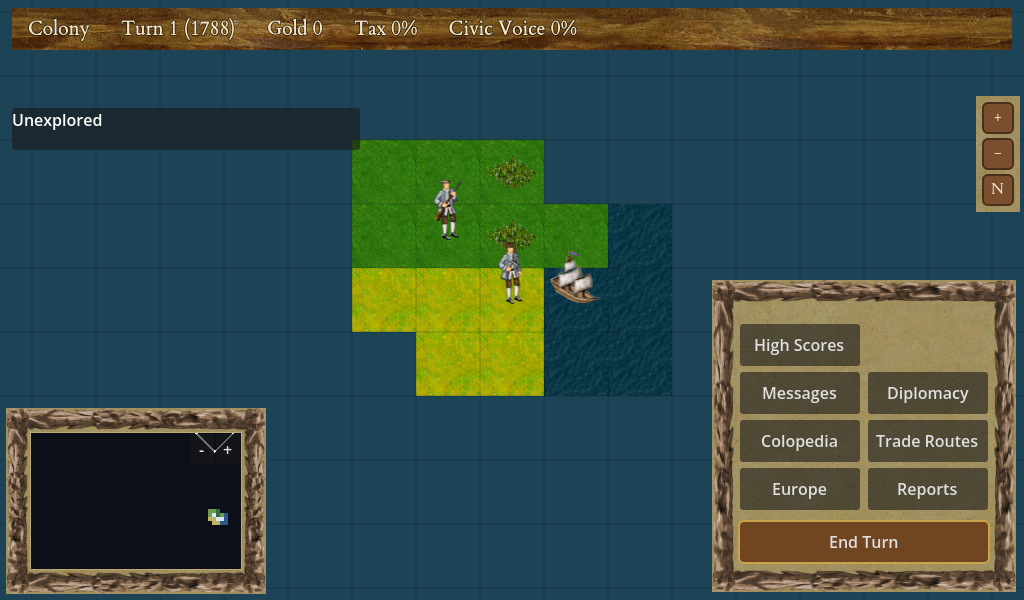
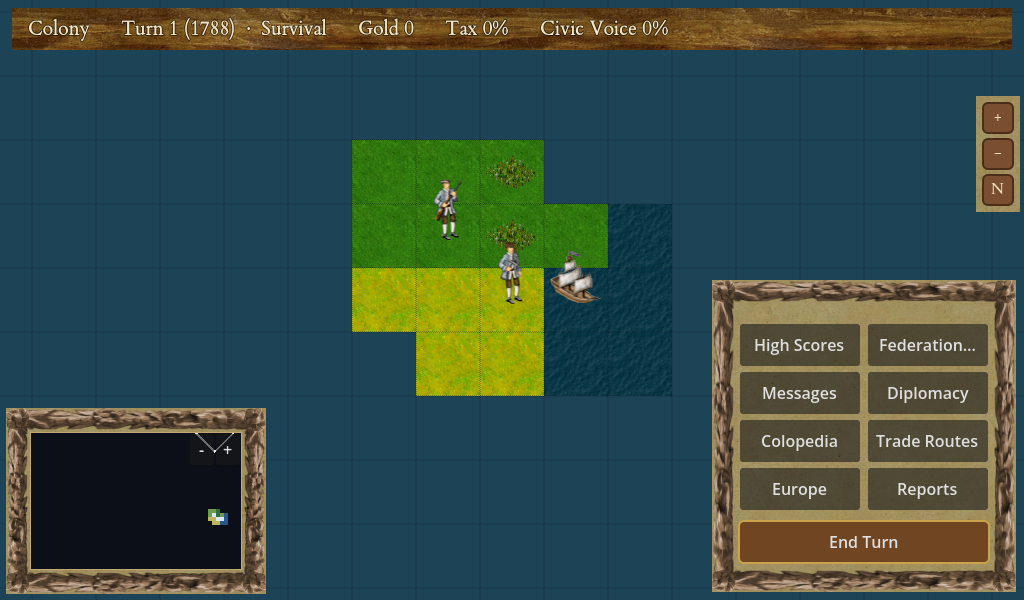
feat(australia): WS2.7 (cont.) — event popup + HUD era indicator
Continuing the UI polish pass after the Federation-panel redesign (Chris
approved the direction). Presentation-only (ADR-006); no rules/GameLogic change.

- Event popup (EventChoicePanel): from a bare title + prompt + unlabelled
  buttons to the doc-19 template — title in the ColonyTitle display variation,
  prompt as a centred wrapped paragraph, and choices as NUMBERED ("1." / "2.")
  full-width buttons under a "Choose a response:" lead-in.
- HUD era indicator: the status strip shows the current Australian era
  (Survival ... Gold Rush ... Federation) via a presentation EventEraLabel
  mapper over the existing public Game.CurrentEventEra oracle. Empty for
  EventEra.Pre (every year outside 1788-1901 = the whole classic calendar), so
  the classic HUD string is byte-for-byte unchanged.

+2 L3 (EventChoicePanelTests: numbered choices + lead-in + title variation;
MainSceneTests: era token shows for Australia (1788 -> Survival), absent for
classic). Render-verified (docs/guide/img/australia-event.png,
australia-world-hud.png). Build + L3 green. Docs updated same commit
(events.md) + PostWorkSummary. Remaining WS2.7 targets (colony-maturity
badges, Pioneer-attained popup) are follow-ups.

diff --git a/game/presentation/EventChoicePanel.cs b/game/presentation/EventChoicePanel.cs
@@ -42,27 +42,54 @@ public partial class EventChoicePanel : PanelContainer
             return;
         }
 
-        GetNode<Label>("VBox/EventTitle").Text = ev.DisplayName;
+        // WS2.7 designed treatment: the event title carries the theme's display-title variation; the prompt reads as a
+        // centred, wrapped paragraph; the choices are a "Choose a response:" lead-in over NUMBERED, full-width choice
+        // buttons (doc 19's event-popup template). Presentation-only — the wood-on-parchment styling is the shared theme.
+        var title = GetNode<Label>("VBox/EventTitle");
+        title.Text = ev.DisplayName;
+        title.ThemeTypeVariation = "ColonyTitle";
+        title.HorizontalAlignment = HorizontalAlignment.Center;
+
         var prompt = GetNode<Label>("VBox/EventPrompt");
         prompt.Text = ev.Prompt ?? string.Empty;
         prompt.Visible = !string.IsNullOrWhiteSpace(ev.Prompt);
+        prompt.AutowrapMode = TextServer.AutowrapMode.WordSmart;
+        prompt.HorizontalAlignment = HorizontalAlignment.Center;
+        prompt.CustomMinimumSize = new Vector2(460, 0); // a comfortable reading measure
 
         var dynamic = GetNode<VBoxContainer>("VBox/Dynamic");
+        dynamic.AddThemeConstantOverride("separation", 6);
         foreach (Node child in dynamic.GetChildren())
         {
             dynamic.RemoveChild(child); child.QueueFree(); // detach now (signal-safe), free deferred — a button's handler drives the resolve
         }
 
+        if (offer.OptionIds.Count > 1)
+        {
+            dynamic.AddChild(new Label
+            {
+                Name = "ChooseLeadIn",
+                Text = "Choose a response:",
+                HorizontalAlignment = HorizontalAlignment.Center,
+            });
+        }
+
+        int number = 1;
         foreach (string optionId in offer.OptionIds)
         {
             string chosen = optionId; // capture for the closure
+            string label = ev.Option(optionId)?.DisplayLabel ?? Naming.Humanize(optionId);
             var button = new Button
             {
                 Name = $"Choose_{optionId}",
-                Text = ev.Option(optionId)?.DisplayLabel ?? Naming.Humanize(optionId),
+                Text = $"{number}.   {label}", // numbered choices (doc 19 template)
+                Alignment = HorizontalAlignment.Left, // reads as a list of responses
+                SizeFlagsHorizontal = SizeFlags.ExpandFill, // full-width choice rows
+                CustomMinimumSize = new Vector2(0, 34),
             };
             button.Pressed += () => Resolve(chosen);
             dynamic.AddChild(button);
+            number++;
         }
 
         Show();

diff --git a/game/presentation/GameController.cs b/game/presentation/GameController.cs
@@ -1255,6 +1255,22 @@ public partial class GameController : Node2D
     }
 
     /// <summary>
+    /// The player-facing name of the current Australian historical era, for the HUD status strip (WS2.7). Returns the empty
+    /// string for <see cref="Game.EventEra.Pre"/> — every year outside the 1788–1901 Australian window, which is the whole
+    /// classic calendar — so the classic HUD shows no era token and stays byte-for-byte unchanged.
+    /// </summary>
+    private static string EventEraLabel(Game.EventEra era) => era switch
+    {
+        Game.EventEra.Survival => "Survival",
+        Game.EventEra.Expansion => "Expansion",
+        Game.EventEra.ColonyFormation => "Colony Formation",
+        Game.EventEra.GoldRush => "Gold Rush",
+        Game.EventEra.Infrastructure => "Infrastructure",
+        Game.EventEra.Federation => "Federation",
+        _ => "", // Pre — the classic calendar / any year outside the window: no era token
+    };
+
+    /// <summary>
     /// The single authoritative table of in-game keyboard shortcuts (`86d3f0vjg`; named-action migration `86d3f0wjj`).
     /// Both the <see cref="_UnhandledInput"/> dispatch <b>and</b> the F1 keys legend are generated from this one list,
     /// so a key and its on-screen description can never drift apart. Each row pairs a named <c>InputMap</c> action id
@@ -3054,8 +3070,13 @@ public partial class GameController : Node2D
         string libertyLabel = _variant.LibertyName is { Length: > 0 } lib
             ? char.ToUpperInvariant(lib[0]) + lib[1..]
             : "Liberty";
+        // WS2.7: an Australian-era token in the status strip (Survival … Gold Rush … Federation). Empty outside the
+        // 1788–1901 window (the whole classic calendar is EventEra.Pre), so the classic HUD is byte-for-byte unchanged.
+        string era = EventEraLabel(_game.CurrentEventEra);
         string status =
-            $"{nation}      Turn {_game.Turn} ({_game.CalendarLabel})      Gold {_game.HumanPlayer.Gold:N0}" +
+            $"{nation}      Turn {_game.Turn} ({_game.CalendarLabel})" +
+            (era.Length > 0 ? $"  ·  {era}" : "") +
+            $"      Gold {_game.HumanPlayer.Gold:N0}" +
             $"      Tax {_game.TaxRate}%      {libertyLabel} {_game.NationalSonsOfLiberty(_game.HumanPlayer)}%";
         if (_notice is not null)
         {

diff --git a/game/presentation/tests/MainSceneTests.cs b/game/presentation/tests/MainSceneTests.cs
@@ -41,6 +41,30 @@ public class MainSceneTests
     }
 
     [TestCase]
+    public async Task Hud_ShowsTheAustralianEraToken_ForAustralia_ButNotForClassic()
+    {
+        // WS2.7: the HUD status strip carries an Australian-era token (Survival … Gold Rush … Federation). It is empty for
+        // the classic calendar (every year is EventEra.Pre, outside the 1788–1901 window), so the classic HUD is unchanged.
+        ISceneRunner runner = ISceneRunner.Load("res://scenes/main.tscn");
+        await runner.SimulateFrames(2);
+        var controller = (GameController)runner.Scene();
+
+        // The default scene is a classic 1492 game → no era token.
+        AssertThat(controller.GetNode<Label>("UI/StatusLabel").Text.Contains("Survival")).IsFalse();
+
+        // Start an Australia game (opens in 1788 — the Survival era) via the production NewGame() path.
+        GameController.PendingVariant = GameVariants.Australia;
+        GameController.PendingMapSource = CrownAndColony.GameLogic.World.MapSource.Australia;
+        typeof(GameController).GetMethod("NewGame", BindingFlags.NonPublic | BindingFlags.Instance)!.Invoke(controller, null);
+        await runner.SimulateFrames(2);
+
+        // …and the status strip now carries the era token (1788 → Survival).
+        string status = controller.GetNode<Label>("UI/StatusLabel").Text;
+        AssertThat(status).Contains("1788");
+        AssertThat(status).Contains("Survival");
+    }
+
+    [TestCase]
     public async Task CalendarHud_ShowsTheDate_AndAdvancesWithTheTurn()
     {
         ISceneRunner runner = ISceneRunner.Load("res://scenes/main.tscn");

diff --git a/game/presentation/tests/EventChoicePanelTests.cs b/game/presentation/tests/EventChoicePanelTests.cs
@@ -49,6 +49,11 @@ public class EventChoicePanelTests
         AssertThat(reform).IsNotNull();
         AssertThat(suppress).IsNotNull();
         AssertThat(reform!.Text).IsNotEmpty();
+        // WS2.7 designed treatment: the choices are numbered ("1." / "2.") under a "Choose a response:" lead-in.
+        AssertThat(reform.Text).StartsWith("1.");
+        AssertThat(suppress!.Text).StartsWith("2.");
+        AssertThat(controller.GetNodeOrNull("UI/EventChoicePanel/VBox/Dynamic/ChooseLeadIn")).IsNotNull();
+        AssertThat(controller.GetNode<Label>("UI/EventChoicePanel/VBox/EventTitle").ThemeTypeVariation.ToString()).IsEqual("ColonyTitle");
 
         reform.EmitSignal(BaseButton.SignalName.Pressed);
         await runner.SimulateFrames(1);

diff --git a/docs/systems/events.md b/docs/systems/events.md
@@ -137,6 +137,7 @@ Notes: the boundaries and chances are **documented code constants** in `Game.Eve
 
 | Date | Change | Commit |
 |---|---|---|
+| 2026-07-11 | **Event popup + HUD era indicator — designed treatment (WS2.7 UI polish, presentation-only)** — no rules change. The **event-choice popup** (`EventChoicePanel`) is lifted from a bare title + prompt + unlabelled buttons to the doc-19 template: the title carries the theme's `ColonyTitle` variation, the prompt reads as a centred wrapped paragraph, and the choices are **numbered** ("1." / "2." …) full-width buttons under a "Choose a response:" lead-in. The **HUD status strip** now shows the current Australian **era token** (Survival → Expansion → Colony Formation → Gold Rush → Infrastructure → Federation), read from the existing public `Game.CurrentEventEra` oracle via a presentation-side `EventEraLabel` mapper; empty for `EventEra.Pre` (every year outside the 1788–1901 window — the whole classic calendar), so the **classic HUD string is byte-for-byte unchanged**. +2 L3 (`EventChoicePanelTests`: numbered choices + lead-in + title variation; `MainSceneTests`: the era token shows for Australia (1788 → Survival), absent for classic). Render-verified (`docs/guide/img/australia-event.png`, `australia-world-hud.png`). Other WS2.7 targets (colony-maturity badges, Pioneer-attained popup) remain follow-ups. See [federation-victory](federation-victory.md) for the WS2.7 Federation-panel redesign. | (this commit) |
 | 2026-07-11 | **Conditional & linked events (M-E, doc 01 §2)** — events can now gate on *play*, not only the calendar. `EventDef` gains two prerequisite lists — `RequiredFathers` (Historical Figures that must be attained, read against `Player.Congress` by exact-or-dotted-suffix match) and `RequiredEvents` (linked events that must have already fired, read against the game-wide `_eventLastFiredTurn` set) — parsed from `<requires>` `<father id>` / `<event id>` children; the parser rejects a dangling linked-event id. `IsEventEligible` ANDs both gates with the existing year/cooldown/limit gates. **No RNG, no save change** (reuses `Congress` + `EventLastFiredTurn`); classic ships no events → the gates never run → byte-identical (determinism soak green). Wired six historically-apt prerequisites on the Australia catalogue: `woolBoom`←`merinoSheep`; `payableField`/`goldImmigrationSurge`/`eurekaStockade`←`goldRush`; `bankCrash`←`marvellousMelbourne`; `overlandTelegraph`←father `charlesTodd`. (World-event semantic: the fired-set is game-wide but the roll is per colonial player — moot for Australia's 0-rival games where the human is the only roller.) +6 L1/L2 (`HistoricalEventTests` parser + gate tests using solo games; `AustraliaVariantTests` catalogue-wiring). Full L1/L2 2950 + determinism soak green. | (this commit) |
 | 2026-07-09 | **Event-choice popup UI (WS1.1b)** — the 31-event narrative is now *interactive in-game*. A new `EventChoicePanel` (presentation, modelled on `EmigrationChoicePanel`) consumes `Game.PendingEventOffer` and renders the event's `DisplayName` → `Prompt` → a labelled button per option; pressing one calls `ChooseEventOption` and reports the chosen option's outcome (its `recordHistory` text). Surfaced by `GameController.RefreshView` (like the emigration prompt) — **before this, a human's multi-option dilemma (Gold Rush, Eureka, Shearers' Strike…) silently auto-resolved to the default option.** Also **authored the popup text for all 31 events** (name/prompt/labels) via a fan-out + adversarial-verify workflow, spliced into the spec (presentation attributes only — effects untouched, diff verified). The verify pass corrected one historical inaccuracy (gold-immigration "colonial population triples" → the *gold colonies'* population) and flagged sensitive events for the 4c.11 review. Single-option events keep auto-resolving (no dilemma) and log their outcome. Classic ships no events → the panel never shows. +1 L1 (`AustraliaVariantTests` authored-text) +1 L3 (`EventChoicePanelTests`: panel opens with the authored text; a choice resolves) + a render capture (`docs/guide/img/australia-event.png`). Full L1/L2 2935 + 5 soak green. **⚠ 4c.11 sign-off pending (Chris):** the Second Fleet ("Death Fleet" tragedy that grants convict labour), the First-Nations dispossession subjects (Sydney Cove / squatting / inland exploration), and the Chinese gold-rush immigration event — all authored to doc-19 tone, but sensitive; await your review. | (this commit) |
 | 2026-07-09 | **Event popup-text layer (WS1.1a)**: added presentation-only text to the event schema so a *polished* event dialog can render — `EventDef.Name`/`Prompt` (popup title + dilemma context, from `name`/`prompt` attributes) and `EventOption.Label` (choice-button text, from `label`). Each exposes a `Display*` property that falls back to the **humanized id** when unauthored (`event.merinoSheep` → "Merino Sheep", `invest` → "Invest"), so partial authoring degrades gracefully. Parsed in `ParseHistoricalEvents`/`ParseEventOption`; **never read by the resolver** (zero logic/RNG impact) — classic ships no events → byte-identical (soak green). Foundation for the event-choice popup (WS1.1b) + the 31-event text authoring. +1 L1 (`HistoricalEventTests`: name/prompt/label parse + humanized fallback). | (this commit) |

diff --git a/PostWorkSummary.md b/PostWorkSummary.md
@@ -19,6 +19,21 @@ A running, at-a-glance log of what Claude completed after each prompt / area of 
 
 ---
 
+## 2026-07-11 — WS2.7 (cont.): event popup + HUD era indicator
+
+**Requested (Chris):** "That looks fine" (approved the Federation-panel direction) → continue WS2.7.
+**Did:**
+- **Event popup (`EventChoicePanel`) designed treatment** — from a bare title + prompt + unlabelled buttons to the doc-19 template: the title in the display serif (`ColonyTitle`), the prompt as a centred wrapped paragraph, and the choices as **numbered** ("1. …" / "2. …") full-width buttons under a **"Choose a response:"** lead-in. Render-verified (`australia-event.png` — the Eureka dilemma now reads as a clear titled prompt + numbered choice list).
+- **HUD era indicator** — the status strip now shows the current Australian **era** (Survival → … → Federation), read from the existing public `Game.CurrentEventEra` oracle via a small presentation-side mapper. Render-verified — the HUD reads "Turn 1 (1788) · Survival". **Empty for classic** (every year is `EventEra.Pre`), so the classic HUD string is **byte-for-byte unchanged** (the concat reproduces the old string exactly).
+- **Presentation-only** (ADR-006) — no rules change, no GameLogic change (both read existing oracles).
+**Status:** verified, **committing now**. Build ✓; L3 `EventChoicePanelTests` + `MainSceneTests` green (+2 assertions/test: numbered choices + lead-in + title variation; era token for Australia, absent for classic). The 8 map-golden **local** failures are the known Windows-vs-CI-Linux renderer diff (UI-only change can't touch map tiles; they pass on CI).
+**Changed:** `EventChoicePanel.cs`, `GameController.cs` (+`EventEraLabel` + era token), `EventChoicePanelTests.cs` (+asserts), `MainSceneTests.cs` (+HUD-era test), `australia-event.png` + `australia-world-hud.png` (regen), `events.md` (changelog).
+**Decisions:** kept the event buttons theme-default wood (not gold) — they're equal choices, not a single CTA; the 2-part flavor/consequence body split (doc 19) is deferred — the engine exposes a single `ev.Prompt` (needs a new EventDef field).
+**Scheduled next:** the last WS2.7 targets — **colony-maturity badges** (the `SettlementMaturityOf` oracle exists, surfaced nowhere) and the **Pioneer-attained celebration popup** (net-new modal; the join moment is only a history-log line today). Or your pick.
+**Needs you:** eyeball `australia-event.png` if you like; nothing blocking. Sign-offs unchanged.
+
+---
+
 ## 2026-07-11 — WS2.7: Federation panel — plain → designed (UI polish)
 
 **Requested (Chris):** WS2.7 go for it (lift the panels from plain to designed).
